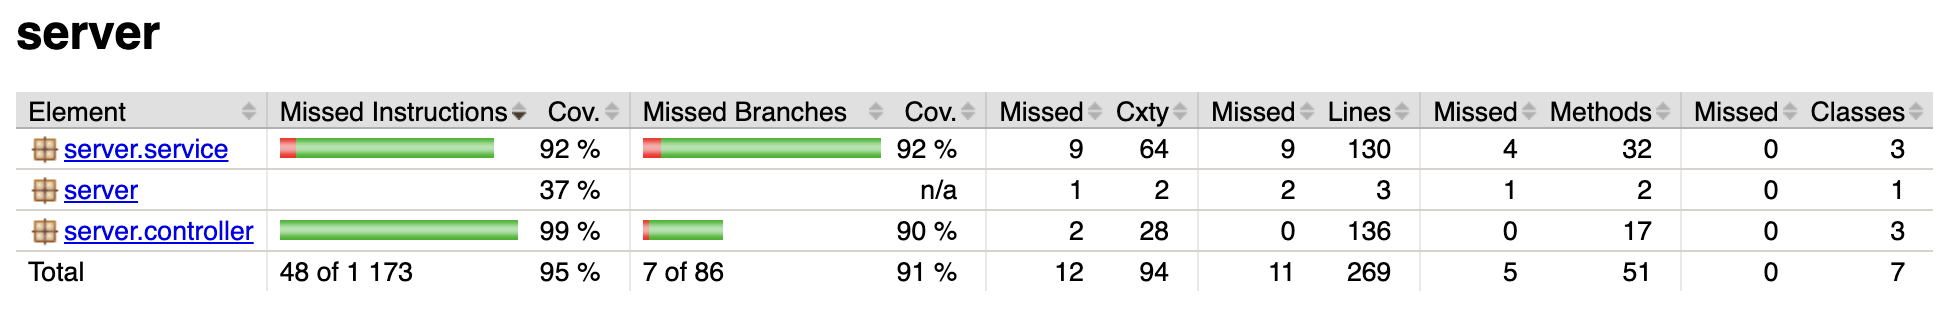
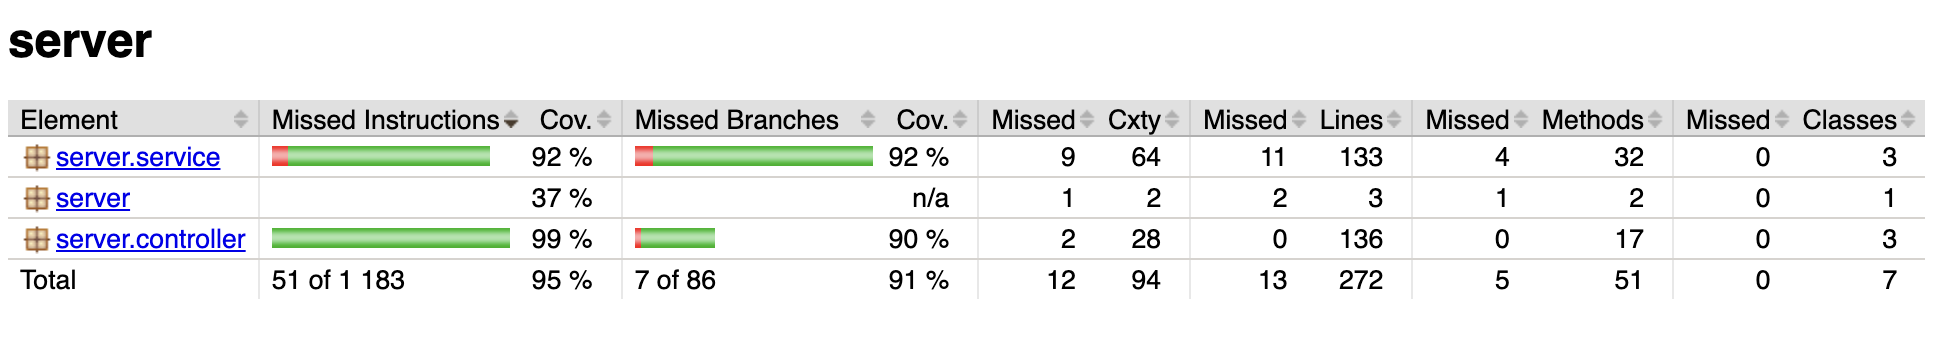
fix(api): fix password validation in userService
Vital change needed for correct password validation

#148

diff --git a/flashcards/server/src/test/java/server/service/UserServiceTest.java b/flashcards/server/src/test/java/server/service/UserServiceTest.java
@@ -193,7 +193,9 @@ class UserServiceTest {
     //success
     String username = "user";
     String password = "Valid1@Pass";
+    User storedUser = new User(username, password);
     when(persistent.userExists(username)).thenReturn(true);
+    when(persistent.readUserData(username)).thenReturn(storedUser);
 
     assertTrue(userService.logInUser(username, password));
 
@@ -207,7 +209,8 @@ class UserServiceTest {
 
     // invalid password
     when(persistent.userExists("user")).thenReturn(true);
-    assertFalse(userService.logInUser("user", "abc"));
+    when(persistent.readUserData("user")).thenReturn(storedUser);
+    assertFalse(userService.logInUser("user", "Wrong1@Pass"));
   }
 
   
@@ -220,12 +223,23 @@ class UserServiceTest {
    */
   @Test
   public void testValidatePassword() {
+    String username = "user";
+    String password = "Valid1@Pass";
+    User storedUser = new User(username, password);
+    when(persistent.userExists(username)).thenReturn(true);
+    when(persistent.readUserData(username)).thenReturn(storedUser);
+
     // success
-    assertTrue(userService.validatePassword("user", "Valid1@Pass"));
+    assertTrue(userService.validatePassword(username, password));
 
     // empty fields
-    assertFalse(userService.validatePassword("", "Valid1@Pass"));
-    assertFalse(userService.validatePassword("user", ""));
+    assertFalse(userService.validatePassword("", password));
+    assertFalse(userService.validatePassword(username, ""));
+
+    // wrong password
+    when(persistent.userExists(username)).thenReturn(true);
+    when(persistent.readUserData(username)).thenReturn(storedUser);
+    assertFalse(userService.validatePassword(username, "Wrong1@Pass"));
   }
 
 

diff --git a/flashcards/server/src/main/java/server/service/UserService.java b/flashcards/server/src/main/java/server/service/UserService.java
@@ -169,7 +169,12 @@ public class UserService {
     if (username.isEmpty() || password.isEmpty()) {
       return false;
     }
-    return isValidPassword(password);
+    LoginValidator validator = new LoginValidator(persistent);
+    try {
+      return validator.authenticateUser(username, password);
+    } catch (IllegalStateException e) {
+      return false;
+    }
   }
 
   /**
